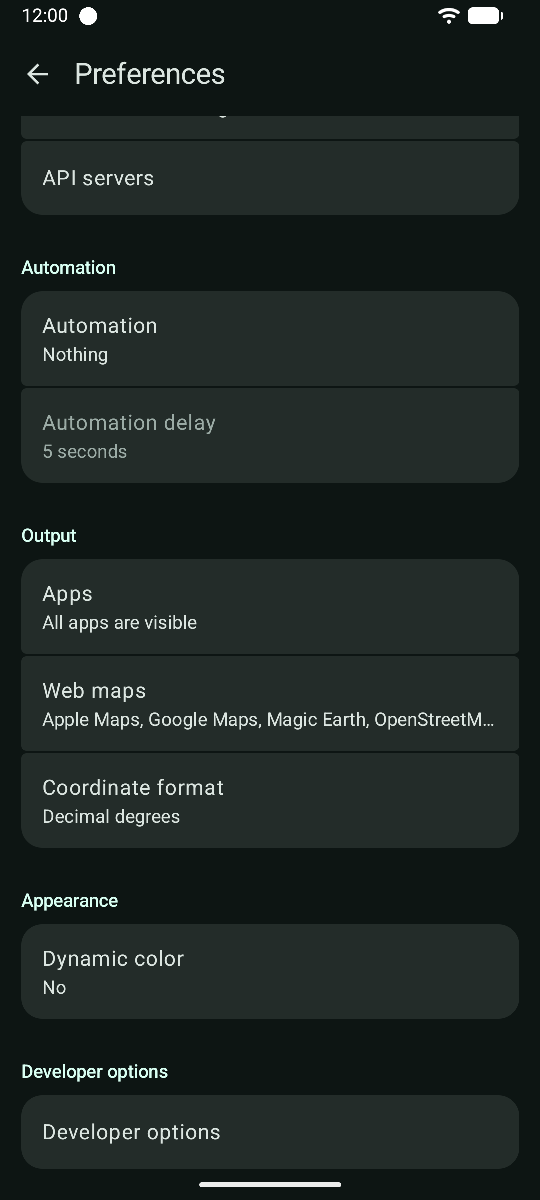
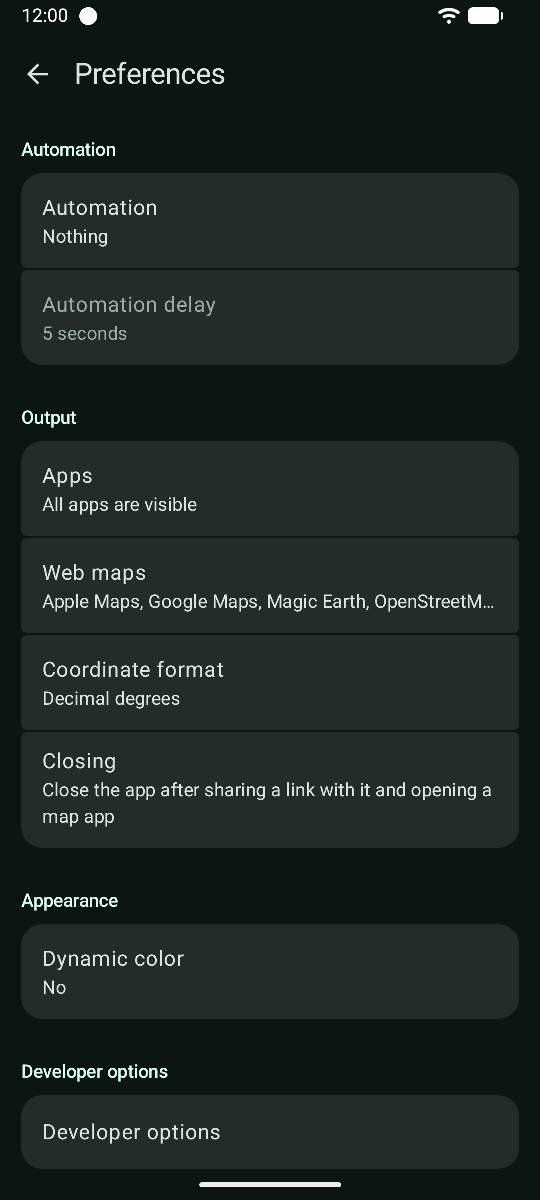
Screenshots: update

diff --git a/app/src/androidTestFree/java/page/ooooo/geoshare/screenshots/ScreenshotsFreeBehaviorTest.kt b/app/src/androidTestFree/java/page/ooooo/geoshare/screenshots/ScreenshotsFreeBehaviorTest.kt
@@ -761,30 +761,16 @@ class ScreenshotsFreeBehaviorTest {
         quickWaitForStableInActiveWindow()
         saveScreenshot("main_strings/preferences_list")
 
-        // Preferences - List - Page 2
-        onElement { viewIdResourceName == "geoShareUserPreferencesListPane" }.scroll(Direction.DOWN, 1f)
-        saveScreenshot("main_strings/preferences_list_page_2")
-
-        if (DynamicColorPreference.isAvailable()) {
-            // Preferences - Appearance - Dynamic color
-            goToUserPreferencesDetail(UserPreferenceGroupId.APPEARANCE_DYNAMIC_COLOR)
-            quickWaitForStableInActiveWindow()
-            saveScreenshot("main_strings/preferences_dynamic_color")
-        }
-
-        // Preferences - Apps
-        goToUserPreferencesDetail(UserPreferenceGroupId.HIDDEN_APPS)
+        // Preferences - Connection permission
+        onElement { viewIdResourceName == "geoShareUserPreferencesGroup_${UserPreferenceGroupId.CONNECTION_PERMISSION}" }
+            .click()
         quickWaitForStableInActiveWindow()
-        saveScreenshot("main_strings/preferences_apps")
-        onElement { viewIdResourceName == "geoShareVisibleAppToggle_${PackageNames.GOOGLE_MAPS}" }.click()
+        saveScreenshot("main_strings/preferences_connection_permission")
         goBackToElement { viewIdResourceName == "geoShareUserPreferencesListPane" }
-        quickWaitForStableInActiveWindow()
-        saveScreenshot("main_strings/preferences_apps_visible_count")
-        goToUserPreferencesDetail(UserPreferenceGroupId.HIDDEN_APPS)
-        onElement { viewIdResourceName == "geoShareVisibleAppToggle_${PackageNames.GOOGLE_MAPS}" }.click() // Make the app visible again to not affect other tests
 
         // Preferences - Automation
-        goToUserPreferencesDetail(UserPreferenceGroupId.AUTOMATION)
+        onElement { viewIdResourceName == "geoShareUserPreferencesGroup_${UserPreferenceGroupId.AUTOMATION}" }
+            .click()
         quickWaitForStableInActiveWindow()
         saveScreenshot("main_strings/preferences_automation")
 
@@ -793,26 +779,63 @@ class ScreenshotsFreeBehaviorTest {
             // Scroll by percent not to element, because scrolling to element is unreliable, due to the lazy list loading
             .scroll(Direction.DOWN, 3f)
         saveScreenshot("main_strings/preferences_automation_web_maps")
+        goBackToElement { viewIdResourceName == "geoShareUserPreferencesListPane" }
 
         // Preferences - Automation delay
-        goToUserPreferencesDetail(UserPreferenceGroupId.AUTOMATION_DELAY)
+        onElement { viewIdResourceName == "geoShareUserPreferencesGroup_${UserPreferenceGroupId.AUTOMATION_DELAY}" }
+            .click()
         quickWaitForStableInActiveWindow()
         saveScreenshot("main_strings/preferences_automation_delay")
+        goBackToElement { viewIdResourceName == "geoShareUserPreferencesListPane" }
 
-        // Preferences - Connection permission
-        goToUserPreferencesDetail(UserPreferenceGroupId.CONNECTION_PERMISSION)
+        // Preferences - List - Page 2
+        onElement { viewIdResourceName == "geoShareUserPreferencesListPane" }.scroll(Direction.DOWN, 1f)
+        saveScreenshot("main_strings/preferences_list_page_2")
+
+        // Preferences - Apps
+        onElement { viewIdResourceName == "geoShareUserPreferencesGroup_${UserPreferenceGroupId.HIDDEN_APPS}" }
+            .click()
         quickWaitForStableInActiveWindow()
-        saveScreenshot("main_strings/preferences_connection_permission")
+        saveScreenshot("main_strings/preferences_apps")
+        onElement { viewIdResourceName == "geoShareVisibleAppToggle_${PackageNames.GOOGLE_MAPS}" }.click()
+        goBackToElement { viewIdResourceName == "geoShareUserPreferencesListPane" }
+        quickWaitForStableInActiveWindow()
+        saveScreenshot("main_strings/preferences_apps_visible_count")
+        goBackToElement { viewIdResourceName == "geoShareUserPreferencesListPane" }
+        onElement { viewIdResourceName == "geoShareUserPreferencesGroup_${UserPreferenceGroupId.HIDDEN_APPS}" }
+            .click()
+        onElement { viewIdResourceName == "geoShareVisibleAppToggle_${PackageNames.GOOGLE_MAPS}" }.click() // Make the app visible again to not affect other tests
+        goBackToElement { viewIdResourceName == "geoShareUserPreferencesListPane" }
 
         // Preferences - Coordinate format
-        goToUserPreferencesDetail(UserPreferenceGroupId.COORDINATE_FORMAT)
+        onElement { viewIdResourceName == "geoShareUserPreferencesGroup_${UserPreferenceGroupId.COORDINATE_FORMAT}" }
+            .click()
         quickWaitForStableInActiveWindow()
         saveScreenshot("main_strings/preferences_coordinate_format")
+        goBackToElement { viewIdResourceName == "geoShareUserPreferencesListPane" }
+
+        // Preferences - Finish
+        onElement { viewIdResourceName == "geoShareUserPreferencesGroup_${UserPreferenceGroupId.FINISH}" }
+            .click()
+        quickWaitForStableInActiveWindow()
+        saveScreenshot("main_strings/preferences_finish")
+        goBackToElement { viewIdResourceName == "geoShareUserPreferencesListPane" }
+
+        if (DynamicColorPreference.isAvailable()) {
+            // Preferences - Appearance - Dynamic color
+            onElement { viewIdResourceName == "geoShareUserPreferencesGroup_${UserPreferenceGroupId.APPEARANCE_DYNAMIC_COLOR}" }
+                .click()
+            quickWaitForStableInActiveWindow()
+            saveScreenshot("main_strings/preferences_dynamic_color")
+            goBackToElement { viewIdResourceName == "geoShareUserPreferencesListPane" }
+        }
 
         // Preferences - Developer options
-        goToUserPreferencesDetail(UserPreferenceGroupId.DEVELOPER_OPTIONS)
+        onElement { viewIdResourceName == "geoShareUserPreferencesGroup_${UserPreferenceGroupId.DEVELOPER_OPTIONS}" }
+            .click()
         quickWaitForStableInActiveWindow()
         saveScreenshot("main_strings/preferences_developer_options")
+        goBackToElement { viewIdResourceName == "geoShareUserPreferencesListPane" }
 
         goBackToMainForm()
     }
